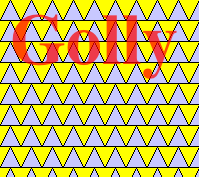
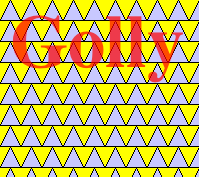
increased font size on Mac to match the text size seen on Windows and Linux

Changed region(s): [[0.0603, 0.0847, 0.9347, 0.4802], [0.0905, 0.0565, 0.3015, 0.2825], [0.0603, 0.1412, 0.0905, 0.226]]

diff --git a/Help/overlay.html b/Help/overlay.html
@@ -119,7 +119,7 @@ by later drawing commands are set to 255,255,255,255 (opaque white).
 The overlay's initial position is set to topleft,
 the cursor is set to the standard arrow,
 the transform values are set to 1,0,0,1 (identity) and alpha blending is off.
-The initial font for drawing text is the default font at a size of 11pt
+The initial font for drawing text is the default system font at a size of 10pt
 (see the <a href="#font">font</a> command).
 </dd>
 <dd> Example: <b>ov("create 400 300")</b></dd>
@@ -446,7 +446,7 @@ The image on the right shows the resulting overlay.
 <b>end</b><br>
 -- create some translucent red text<br>
 <b>ov("rgba 255 0 0 180")</b><br>
-<b>ov("font 72 roman-bold")</b><br>
+<b>ov("font 60 roman-bold")</b><br>
 <b>ov("text mytext Golly")</b><br>
 <b>ov("blend 1")</b><br>
 <b>ov("paste 10 10 mytext")</b><br>
@@ -486,7 +486,7 @@ the resulting overlay.
 <b>ov("create 200 380")</b><br>
 <b>ov("fill")</b><br>
 <b>ov("blend 1")</b><br>
-<b>ov("font 16 default-bold")</b><br>
+<b>ov("font 12 default-bold")</b><br>
 -- do rotations<br>
 <b>ov("rgba 0 0 255 255")</b><br>
 <b>ov("text temp ROTATE")</b><br>

diff --git a/gui-wx/wxoverlay.cpp b/gui-wx/wxoverlay.cpp
@@ -123,8 +123,13 @@ const char* Overlay::DoCreate(const char* args)
     // initialize current font used by text command
     currfont = wxSystemSettings::GetFont(wxSYS_DEFAULT_GUI_FONT);
     fontname = "default";
-    fontsize = 11;
-    currfont.SetPointSize(fontsize);
+    fontsize = 10;
+    #ifdef __WXMAC__
+        // need to increase Mac font size by 25% to match text size on Win/Linux
+        currfont.SetPointSize(int(fontsize * 1.25 + 0.5));
+    #else
+        currfont.SetPointSize(fontsize);
+    #endif
     
     return NULL;
 }
@@ -1028,10 +1033,17 @@ const char* Overlay::DoFont(const char* args)
     if (newsize <= 0 || newsize >= 1000) {
         return OverlayError("font size must be > 0 and < 1000");
     }
-    
+
+    #ifdef __WXMAC__
+        // need to increase Mac font size by 25% to match text size on Win/Linux
+        int ptsize = int(newsize * 1.25 + 0.5);
+    #else
+        int ptsize = newsize;
+    #endif
+
     if (samename) {
         // just change the current font's size
-        currfont.SetPointSize(newsize);
+        currfont.SetPointSize(ptsize);
     
     } else {
         newname = args + namepos;
@@ -1039,35 +1051,35 @@ const char* Overlay::DoFont(const char* args)
         // check if given font name is valid
         if (strcmp(newname, "default") == 0) {
             currfont = wxSystemSettings::GetFont(wxSYS_DEFAULT_GUI_FONT);
-            currfont.SetPointSize(newsize);
+            currfont.SetPointSize(ptsize);
             
         } else if (strcmp(newname, "default-bold") == 0) {
             currfont = wxSystemSettings::GetFont(wxSYS_DEFAULT_GUI_FONT);
-            currfont.SetPointSize(newsize);
+            currfont.SetPointSize(ptsize);
             currfont.SetWeight(wxFONTWEIGHT_BOLD);
             
         } else if (strcmp(newname, "default-italic") == 0) {
             currfont = wxSystemSettings::GetFont(wxSYS_DEFAULT_GUI_FONT);
-            currfont.SetPointSize(newsize);
+            currfont.SetPointSize(ptsize);
             currfont.SetStyle(wxFONTSTYLE_ITALIC);
             
         } else if (strcmp(newname, "mono") == 0) {
-            currfont = wxFont(newsize, wxFONTFAMILY_MODERN, wxFONTSTYLE_NORMAL, wxFONTWEIGHT_NORMAL);
+            currfont = wxFont(ptsize, wxFONTFAMILY_MODERN, wxFONTSTYLE_NORMAL, wxFONTWEIGHT_NORMAL);
             
         } else if (strcmp(newname, "mono-bold") == 0) {
-            currfont = wxFont(newsize, wxFONTFAMILY_MODERN, wxFONTSTYLE_NORMAL, wxFONTWEIGHT_BOLD);
+            currfont = wxFont(ptsize, wxFONTFAMILY_MODERN, wxFONTSTYLE_NORMAL, wxFONTWEIGHT_BOLD);
             
         } else if (strcmp(newname, "mono-italic") == 0) {
-            currfont = wxFont(newsize, wxFONTFAMILY_MODERN, wxFONTSTYLE_ITALIC, wxFONTWEIGHT_NORMAL);
+            currfont = wxFont(ptsize, wxFONTFAMILY_MODERN, wxFONTSTYLE_ITALIC, wxFONTWEIGHT_NORMAL);
             
         } else if (strcmp(newname, "roman") == 0) {
-            currfont = wxFont(newsize, wxFONTFAMILY_ROMAN, wxFONTSTYLE_NORMAL, wxFONTWEIGHT_NORMAL);
+            currfont = wxFont(ptsize, wxFONTFAMILY_ROMAN, wxFONTSTYLE_NORMAL, wxFONTWEIGHT_NORMAL);
             
         } else if (strcmp(newname, "roman-bold") == 0) {
-            currfont = wxFont(newsize, wxFONTFAMILY_ROMAN, wxFONTSTYLE_NORMAL, wxFONTWEIGHT_BOLD);
+            currfont = wxFont(ptsize, wxFONTFAMILY_ROMAN, wxFONTSTYLE_NORMAL, wxFONTWEIGHT_BOLD);
             
         } else if (strcmp(newname, "roman-italic") == 0) {
-            currfont = wxFont(newsize, wxFONTFAMILY_ROMAN, wxFONTSTYLE_ITALIC, wxFONTWEIGHT_NORMAL);
+            currfont = wxFont(ptsize, wxFONTFAMILY_ROMAN, wxFONTSTYLE_ITALIC, wxFONTWEIGHT_NORMAL);
         
         } else {
             return OverlayError("unknown font name");

diff --git a/gui-wx/wxoverlay.h b/gui-wx/wxoverlay.h
@@ -111,7 +111,7 @@ private:
     // The current cursor is set to the standard arrow.
     // Alpha blending is turned off.
     // The transformation values are set to 1,0,0,1 (identity).
-    // The current font is set to the default font at 11pt.
+    // The current font is set to the default font at 10pt.
     
     const char* DoPosition(const char* args);
     // Specify where to display the overlay within the current view.
